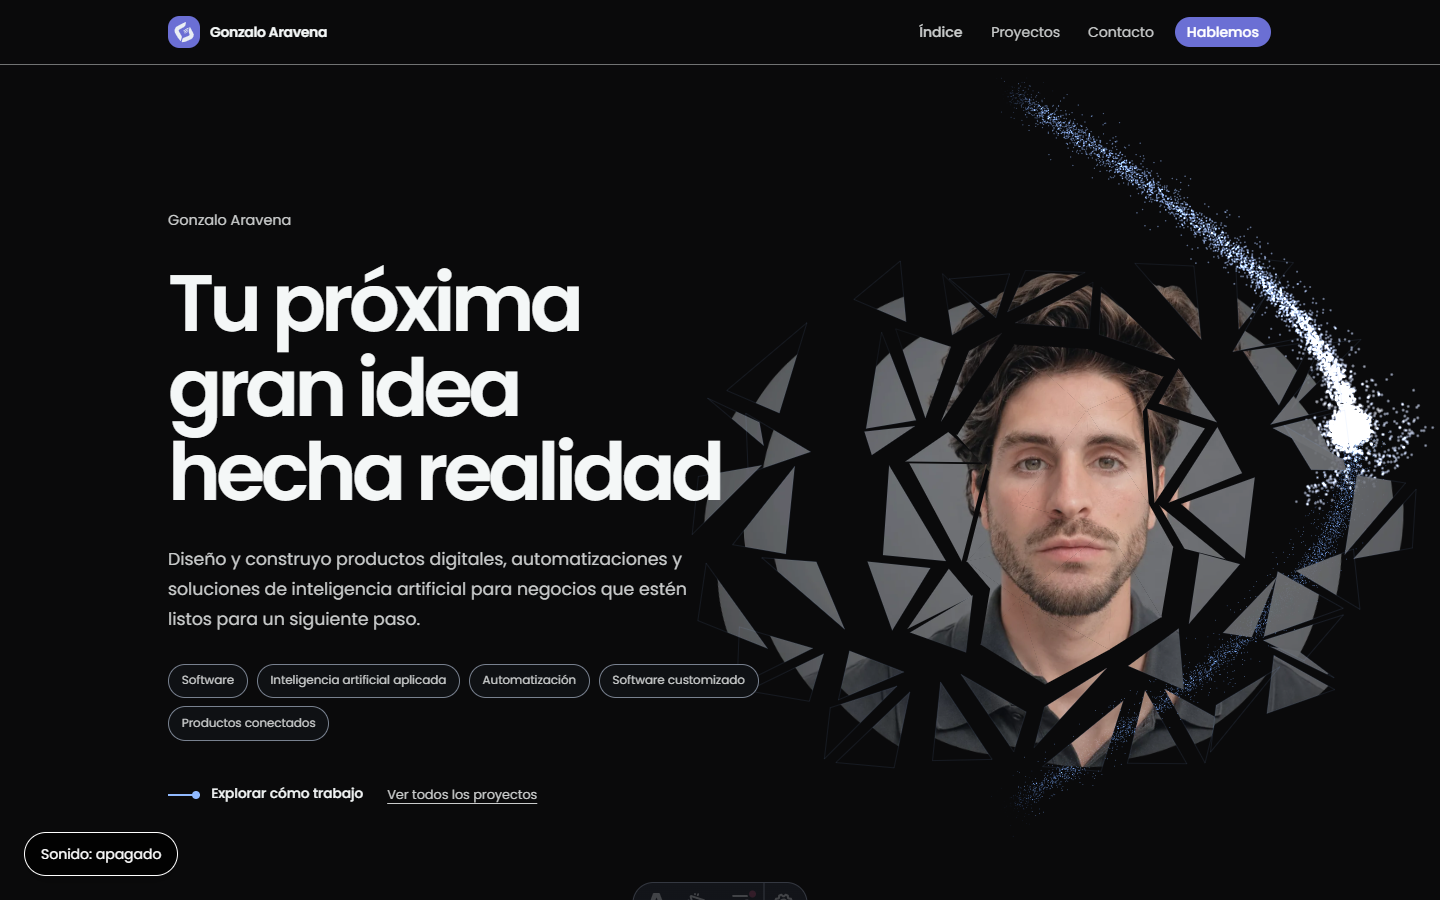
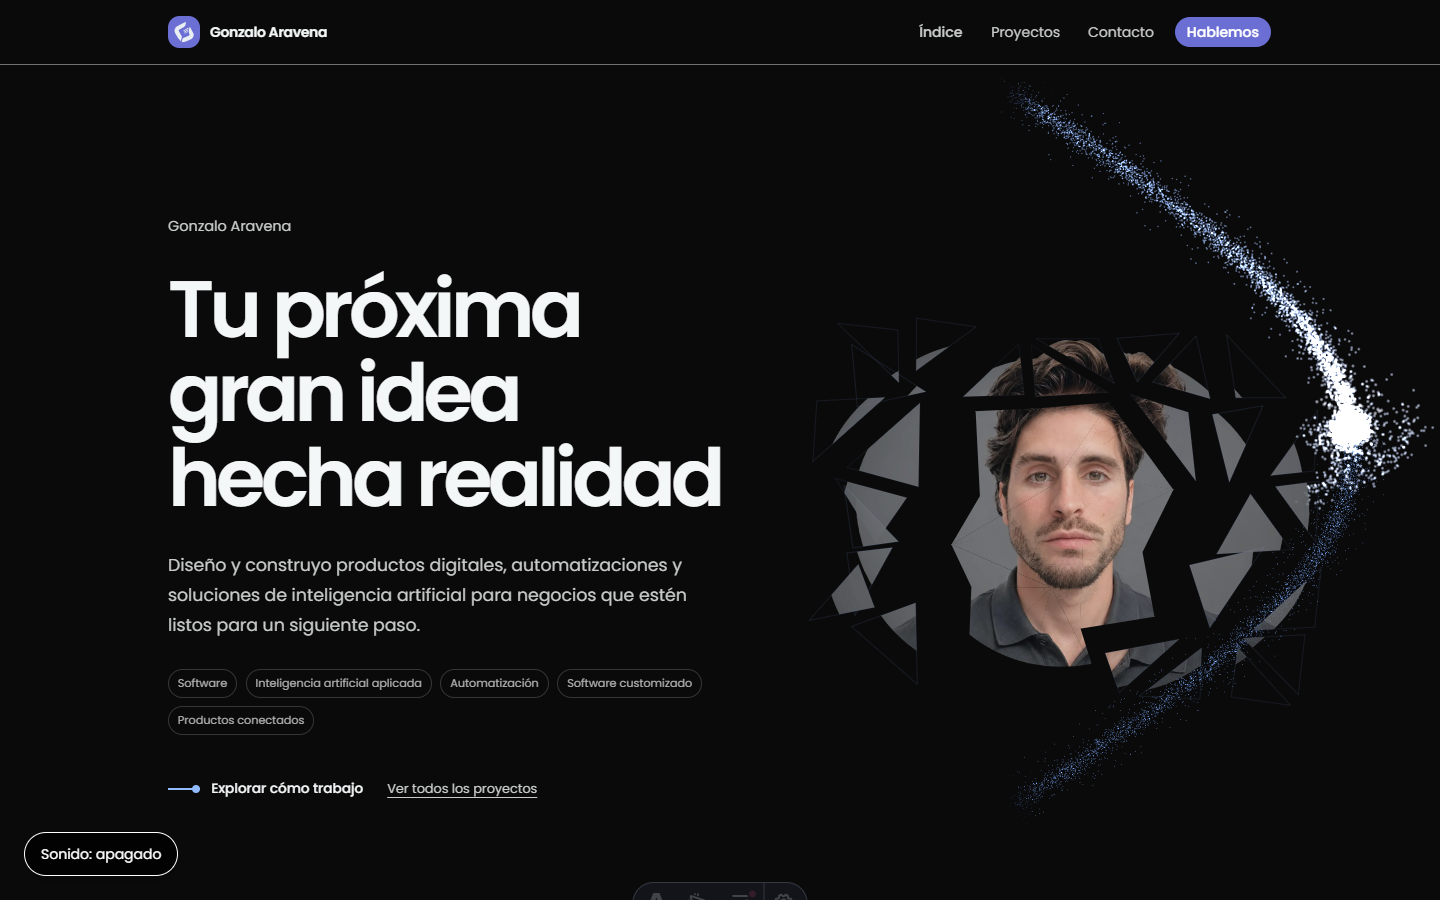
fix: reducir retrato y chips y prolongar transformación a Vibo

diff --git a/src/experience/choreography.ts b/src/experience/choreography.ts
@@ -4,7 +4,7 @@ export const HANDOFF_START = 0.86
 /** La entrada de la cancha tiene más recorrido; las demás escenas conservan
  * su ritmo. Hilo, cámara, paleta y captions comparten el mismo intervalo. */
 export function handoffStart(chapterId?: string | null): number {
-  return chapterId === "manifesto" ? 0.78 : HANDOFF_START
+  return chapterId === "manifesto" ? 0.7 : HANDOFF_START
 }
 
 export function ease(value: number): number {

diff --git a/src/components/journey/manifesto.ts b/src/components/journey/manifesto.ts
@@ -48,7 +48,7 @@ function mountManifesto() {
       scrollTrigger: {
         trigger: root,
         start: "bottom 95%",
-        end: "bottom 78%",
+        end: "bottom 85%",
         scrub: true,
       },
     })

diff --git a/docs/plan/evidencias/T-A43/README.md b/docs/plan/evidencias/T-A43/README.md
@@ -5,10 +5,10 @@ Pedido humano del 23/10/2026. Rama `t/A43-hero-retrato-manifiesto`.
 ## Resultado
 
 - Retrato existente de 44.912 bytes, fragmentado con canvas 2D: hasta 98 triángulos desktop / 50 táctil, menos fragmentos transparentes descartados. Núcleo facial compacto y contorno con dispersión radial marcada, especialmente lateral. Ensamblado inicial, dispersión reversible por scroll y atracción local al cursor. Canvas con todo el ancho del viewport y altura triple al retrato para alojar la dispersión sin recortes laterales del contenedor. Recalcula tamaño y origen al redimensionar.
-- Composición en dos columnas desktop y retrato superior centrado en mobile; chips y jerarquía tipográfica renovados.
+- Composición en dos columnas desktop y retrato superior centrado en mobile. Retrato al 76 % de su columna y máximo 310px desktop; 44vw y máximo 180px móvil. Chips sin relleno, con borde neutro al 22 %, texto discreto y padding reducido para priorizar el título.
 - Bloques de lectura totalmente transparentes, sin fondos ni sombras. El hilo conserva su renderer global: una curva editorial en el espacio libre a la derecha evita el texto. La curva también se aplica al destino del handoff para mantener continuidad al entrar en cada capítulo.
-- GSAP + SplitText + ScrollTrigger: las tres frases comparten el despliegue por palabras de “Diseño experiencias”. Timeline con scrub de 0,45 s, secuencia entre top 65 % y top 10 % y capítulo de 100svh en flujo normal, sin sticky. La salida del texto acaba en bottom 78 %, antes del handoff a Vibo (0,78 de progreso); el modo reducido conserva el texto estático. Sin dependencias nuevas. Se elimina “Así toma forma en Vibo”.
-- Ritmo pulido: el manifiesto alinea su contenido arriba con padding de 2–3rem. Su título aparece 157px antes en desktop y 200px antes en móvil emulado (medido comparando el layout previo). El handoff a Vibo pasa del último 14 % al 22 % del scroll del capítulo, con hilo, cámara, paleta y captions sincronizados; las demás transiciones mantienen 0,86.
+- GSAP + SplitText + ScrollTrigger: las tres frases comparten el despliegue por palabras de “Diseño experiencias”. Timeline con scrub de 0,45 s, secuencia entre top 65 % y top 10 % y capítulo de 100svh en flujo normal, sin sticky. La salida del texto acaba en bottom 85 %, antes del handoff a Vibo (0,70 de progreso); el modo reducido conserva el texto estático. Sin dependencias nuevas. Se elimina “Así toma forma en Vibo”.
+- Ritmo pulido: el manifiesto alinea su contenido arriba con padding de 2–3rem. Su título aparece 157px antes en desktop y 200px antes en móvil emulado (medido comparando el layout previo). El handoff a Vibo pasa del último 14 % al 30 % del scroll del capítulo, con hilo, cámara, paleta y captions sincronizados; las demás transiciones mantienen 0,86.
 - Movimiento reducido: imagen HTML y frases sin dividir, sin listeners del retrato. Limpieza al navegar y restauración al volver.
 
 ## Verificación
@@ -25,4 +25,4 @@ Pendiente: sensaciones en teléfono físico y aprobación estética humana. No s
 
 ## Pulido de entrada a Vibo
 
-`node docs/plan/evidencias/T-A43/transitions.mjs`: compara espaciado con el CSS previo, verifica el intervalo 0,78–1 (1,57 veces el recorrido anterior), captura cinco pasos desktop/mobile y vuelve al punto intermedio. Paleta idéntica al volver, textos del manifiesto ya ocultos y cero errores JavaScript. Evidencia en `transitions.json` y `*-vibo-entry-{0,1,2,3,4}.png`. Se conserva la misma curva quíntica y el destino del hilo. La duración temporal sigue dependiendo de la velocidad de scroll del visitante.
+`node docs/plan/evidencias/T-A43/transitions.mjs`: compara espaciado con el CSS previo, verifica el intervalo 0,70–1 (2,14 veces el recorrido original y un 36 % más que el ajuste previo de 22 %), captura cinco pasos desktop/mobile y vuelve al punto intermedio. Paleta idéntica al volver, textos del manifiesto ya ocultos y cero errores JavaScript. Evidencia en `transitions.json` y `*-vibo-entry-{0,1,2,3,4}.png`. Se conserva la misma curva quíntica y el destino del hilo. La duración temporal sigue dependiendo de la velocidad de scroll del visitante.

diff --git a/docs/plan/tablero.md b/docs/plan/tablero.md
@@ -119,7 +119,7 @@
 
 | ID | Tarea y criterio de terminado | Depende de | Zona | Estado |
 | --- | --- | --- | --- | --- |
-| T-A43 | Retrato triangular con scroll y magnetismo, pulido de cabecera/chips, protección del texto frente al hilo y tres animaciones GSAP del manifiesto; quitar enlace a Vibo. Pedido humano 2026-10-23, registrado listo y tomado en esta sesión. | T-A12, T-A13 | `src/components/journey/{Hero*,heroPortrait.ts,Manifesto*,manifesto.ts}`, `src/experience/{thread/{runtime.ts,README.md},choreography.ts,palette.ts,SceneDirector.tsx}`, `src/scenes/greybox/Caption.tsx` (continuidad y ritmo hacia Vibo, ampliado por feedback humano), evidencia y tablero | en revisión (rama `t/A43-hero-retrato-manifiesto`; manifiesto adelantado 157px desktop / 200px mobile, handoff Vibo 0,78–1 sincronizado y reversible; evidencia `evidencias/T-A43/`) |
+| T-A43 | Retrato triangular con scroll y magnetismo, pulido de cabecera/chips, protección del texto frente al hilo y tres animaciones GSAP del manifiesto; quitar enlace a Vibo. Pedido humano 2026-10-23, registrado listo y tomado en esta sesión. | T-A12, T-A13 | `src/components/journey/{Hero*,heroPortrait.ts,Manifesto*,manifesto.ts}`, `src/experience/{thread/{runtime.ts,README.md},choreography.ts,palette.ts,SceneDirector.tsx}`, `src/scenes/greybox/Caption.tsx` (continuidad y ritmo hacia Vibo, ampliado por feedback humano), evidencia y tablero | en revisión (rama `t/A43-hero-retrato-manifiesto`; retrato reducido y centrado, chips tenues, handoff Vibo 0,70–1 sincronizado y reversible; evidencia `evidencias/T-A43/`) |
 
 ## Bloqueos y preguntas
 

diff --git a/src/experience/thread/README.md b/src/experience/thread/README.md
@@ -13,8 +13,8 @@ El scroll nativo sigue disponible. Los deep links posicionan el cursor mediante
 
 `choreography.ts` define `HANDOFF_START = 0.86` y una rampa quíntica con velocidad
 y aceleración nulas en los extremos. `handoffStart(chapterId)` adelanta solo la
-entrada manifiesto → Vibo a `0.78`: dispone del 22 % del capítulo en vez del
-14 %, un 57 % más de recorrido. Cámara, paleta, hilo, captions y fundidos usan
+entrada manifiesto → Vibo a `0.70`: dispone del 30 % del capítulo en vez del
+14 % original (un 36 % más que el ajuste anterior de 22 %). Cámara, paleta, hilo, captions y fundidos usan
 ese mismo intervalo por capítulo. No hay una transición autónoma de 550 ms ni un segundo filtro
 que retrase el hilo respecto de la cámara.
 
